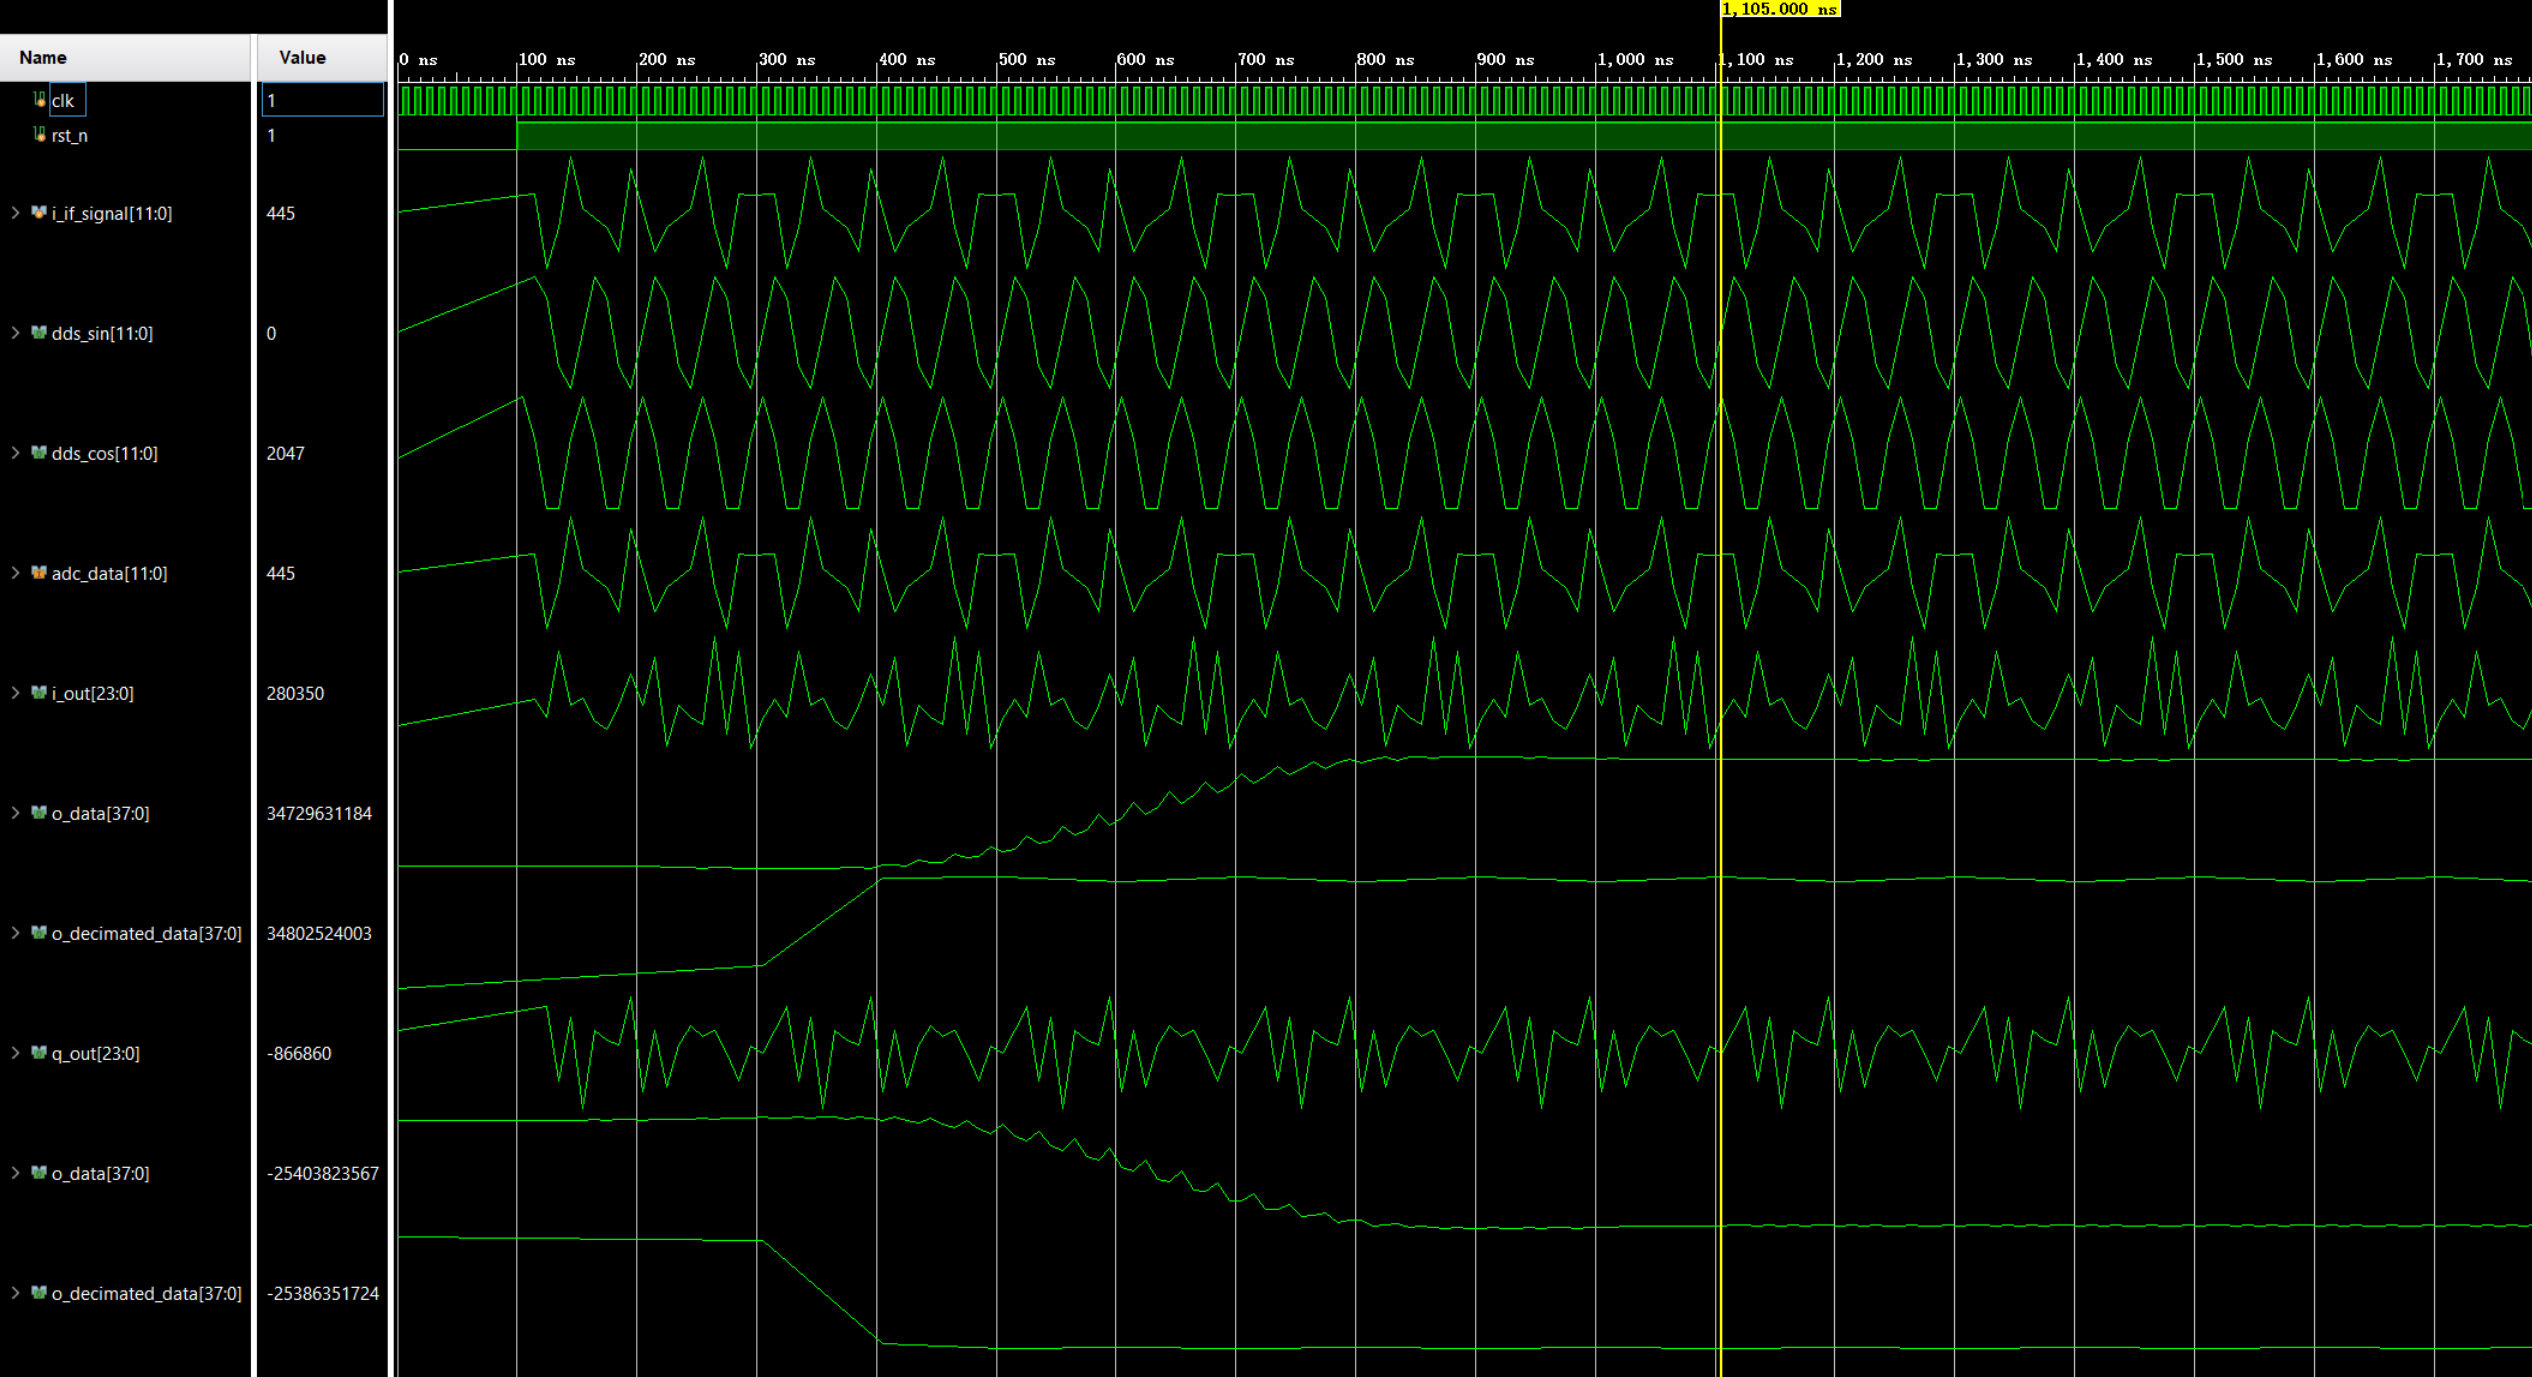
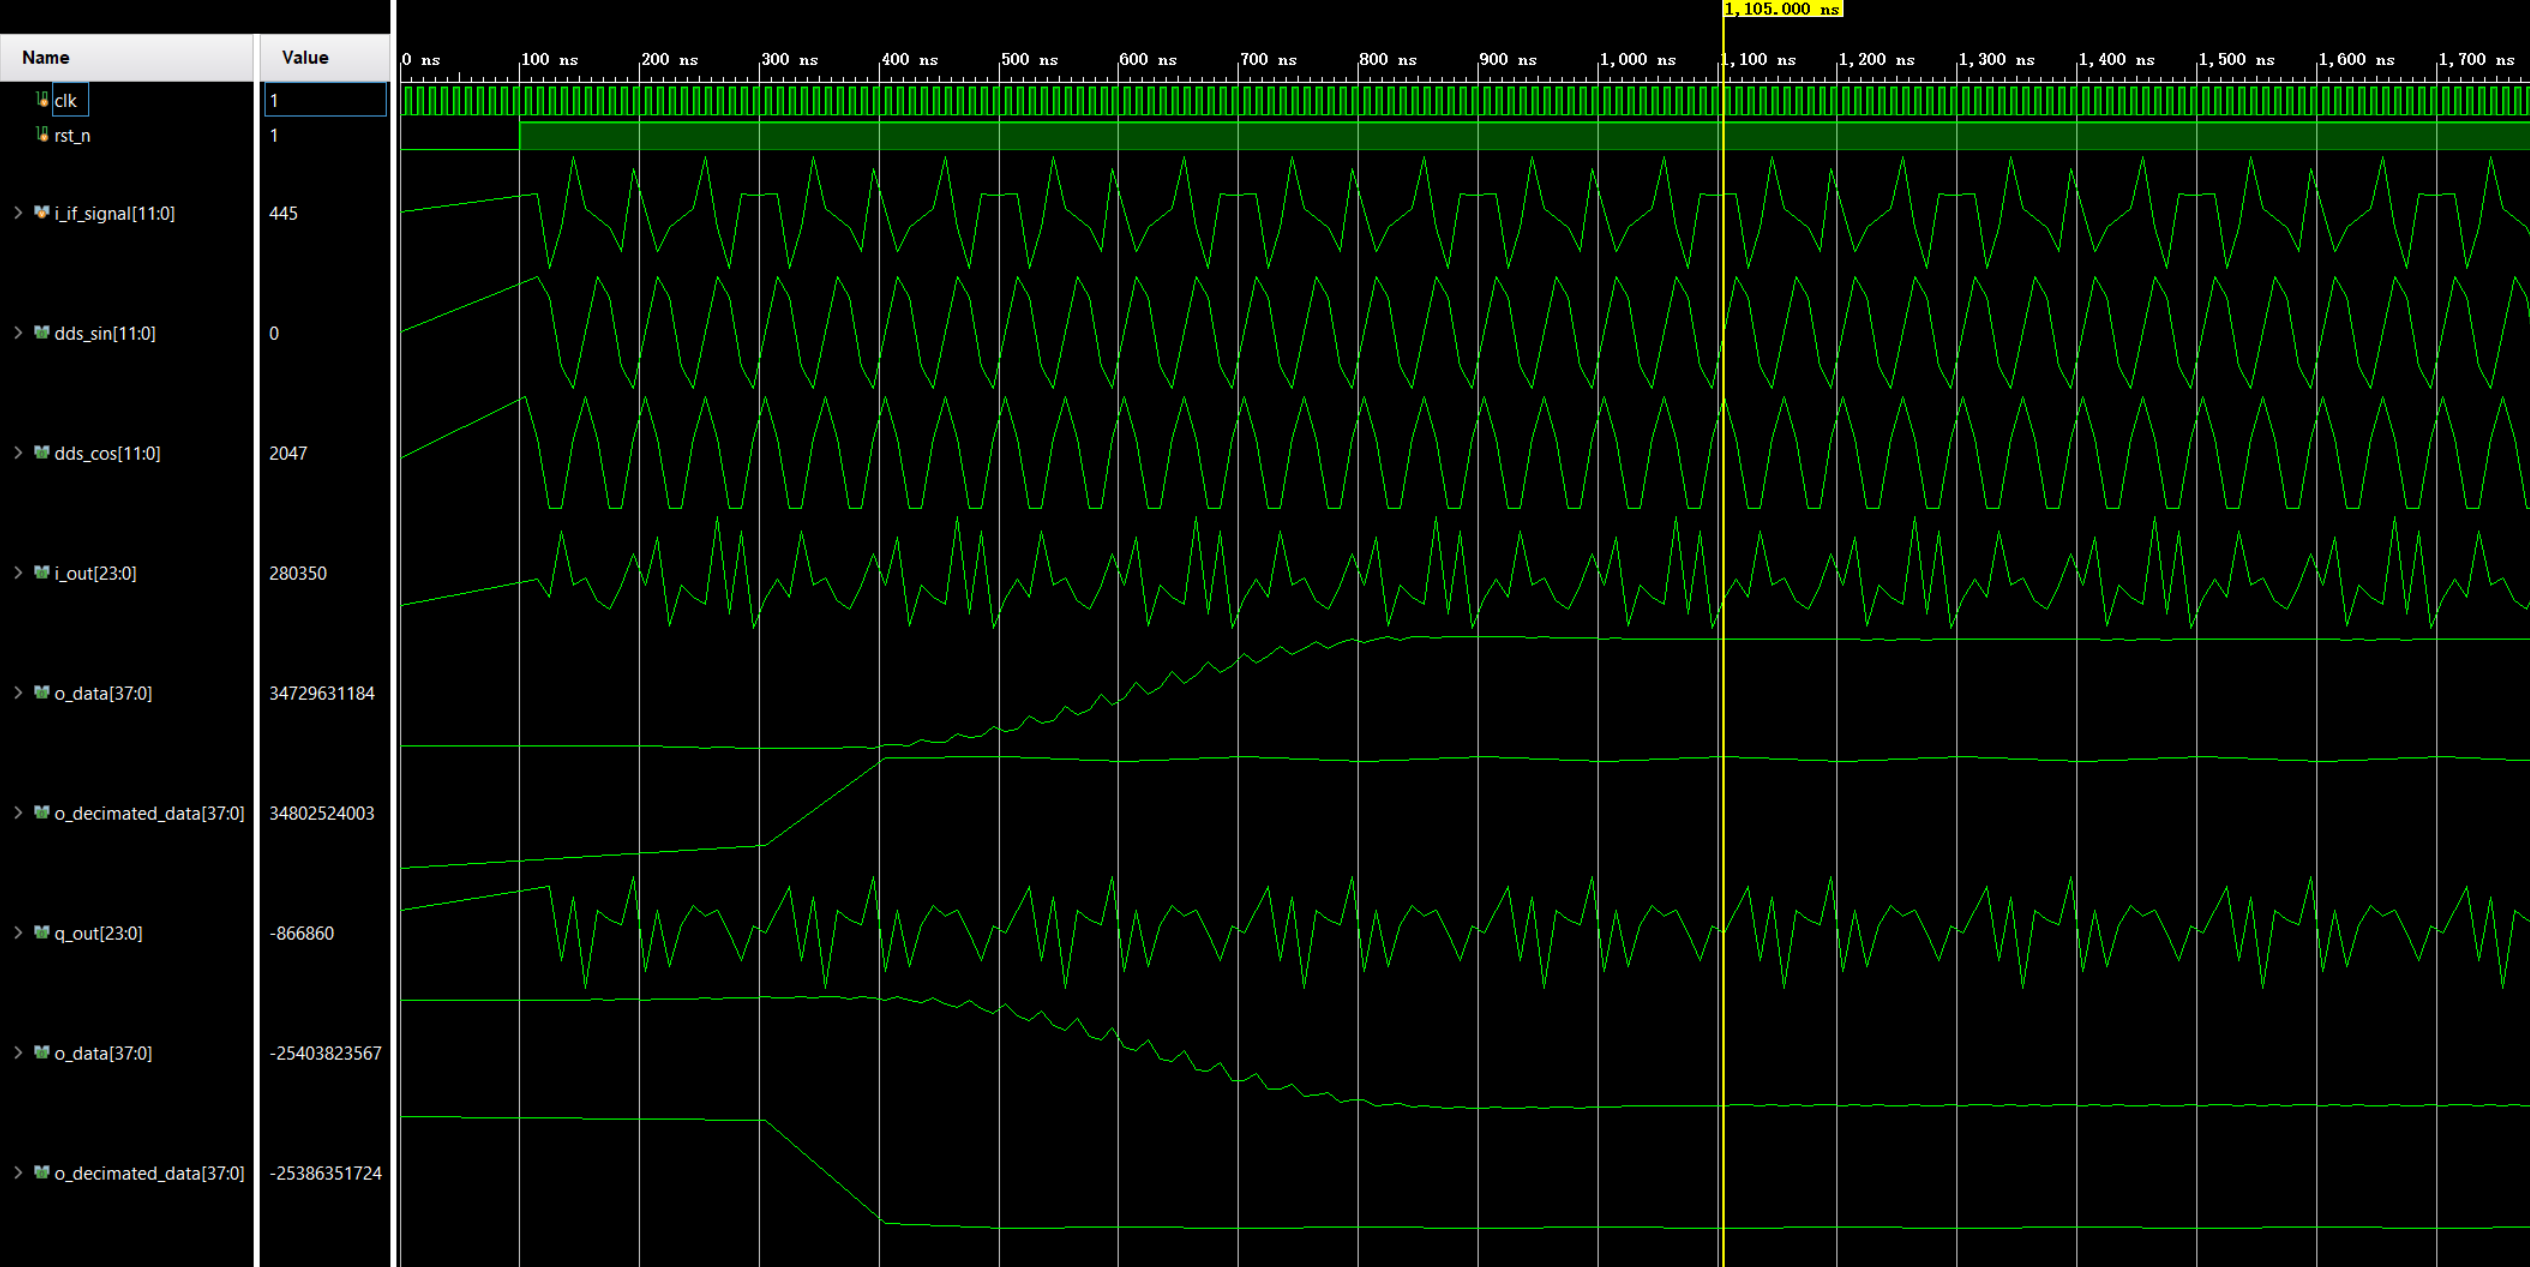
DDS has been modified

diff --git a/project_3/README.md b/project_3/README.md
@@ -11,6 +11,7 @@ a(t) \cos (\omega_ct + \phi(t)) \longrightarrow a(t)e^{j\phi(t)} = a(t)\cos(\phi
 $$
 
 Our input signal is `i_if_signal` from `ddc_top_tb.sv`, which equals 
+
 $$
 \underbrace{1000\cos(2\pi\cdot 20\text{ MHz}\cdot t)}_{\text{target signal}} + \underbrace{800\cos(2\pi\cdot 35\text{ MHz}\cdot t)}_{\text{interference signal}}
 $$
@@ -33,7 +34,7 @@ The `dds.sv` file creates a clean, smooth digital sine (`dds_sin`) and cosine (`
 | --- | --- | --- | --- |
 | `clk` | Input | 1 bit | The main heartbeat clock running at $100\text{ MHz}$ |
 | `rst_n` | Input | 1 bit | The reset button (clears memory when turned off). |
-| `ftw` | Input | 32 bits | **Frequency Tuning Word:** The digital knob that sets how fast the wave oscillates. |
+| `ftw` | Input | 32 bits | **Frequency Tuning Word:** The digital step size that sets the output wave's frequency. |
 | `init_phase` | Input | 32 bits | Sets where the wave starts its cycle after a reset. |
 | `dds_sin` | Output | 12 bits | The generated sine wave output stream. |
 | `dds_cos` | Output | 12 bits | The generated cosine wave output stream. |
@@ -41,44 +42,45 @@ The `dds.sv` file creates a clean, smooth digital sine (`dds_sin`) and cosine (`
 
 ## 3. Step-by-Step From Input to Output
 
-1. **Step Forward:** On every clock tick, a 32-bit counter (`phase_acc`) takes a step forward by adding the value of `ftw`.
-2. **Find the Angle:** The top 10 bits of this counter tell us our current position (angle) on a $360^\circ$ circle.
-3. **Look Up the Value:** The module looks up that angle in a pre-stored lookup table (`lut_rom`), which holds 1024 points of a pre-calculated sine wave.
-4. **Shift for Cosine:** To make a cosine wave at the same time, the module shifts the angle forward by $90^\circ$ ($\pi/2$ radians) and reads the table again.
-5. **Send Out Data:** The numbers retrieved from the lookup table are sent out as 12-bit signed digital wave values on every clock cycle.
+1. **Phase Accumulator:** It's job is to accumulate the phase using `ftw` until wrap aroud occurs and start over.
+2. **Look-Up Table (LUT) Index Calculation:** Converts the 32-bit phase accumulator output into normalized 10-bit memory addresses for the sine lookup tables. It applies a $90^\circ$ phase shift for the cosine calculation, flips the MSB to map the phase range to the table's signed $[-1, 1)$ domain, and truncates the result to extract the top 10 address bits (`k_s` and `k_c`). 
+3. **Look-Up Table (LUT):** Here the look up table is created, the index can be used to find the corresponding sine value.
+4. **Register Output Signals:** Synchronously samples the look-up table values (`k_s` and `k_c`) on every clock edge to update the 12-bit signed output registers `dds_sin` and `dds_cos`. 
 
 
 ## 4. Mathematical Proofs: Why Numbers Are Set This Way
+### 4.1. Discrete Phase Accumulation
+Discrete sampling $t=nT_s$, where $n=0,1,2,...,\infty$
 
-**How do we set `ftw` to get a target $20\text{ MHz}$ carrier wave?**
-The 32-bit counter wraps around after $2^{32}$ steps (a full $360^\circ$ circle). To find out how big each step (`FTW`) needs to be to make a $20\text{ MHz}$ wave out of a $100\text{ MHz}$ clock, we use this ratio:
-
-$$
-\text{FTW} = \frac{\text{Target Frequency}}{\text{Clock Frequency}} \times 2^{32}
-$$
-
-Plugging in our values ($20\text{ MHz}$ target, $100\text{ MHz}$ clock):
+Sampling rate $f_s=1/T_s=100\text{ MHz}$, phase $\phi_n = n \omega_c T_s$, so
 
 $$
-\text{FTW} = \frac{20}{100} \times 4,294,967,296 = 0.2 \times 4,294,967,296 = 858,993,459
+\phi_{n+1} = (n+1)\omega_c T_s = n \omega_c T_s + \omega_c T_s = \phi_n + \phi_s
 $$
 
-Adding $858,993,459$ on every clock cycle makes the counter complete a full sine wave cycle once every 5 clock ticks ($100 / 20 = 5$).
+Since `phase_acc <= phase_acc + ftw`, `ftw` represents $\phi_s = \omega_c T_s$
 
-**Why do we add $2^{30}$ to get the Cosine wave?**
-A cosine wave is just a sine wave shifted ahead by a quarter of a full turn ($90^\circ$ out of $360^\circ$):
-
-$$
-\cos(\theta) = \sin(\theta + 90^\circ)
-$$
-
-Since a full turn ($360^\circ$) equals $2^{32}$ steps, a quarter turn ($90^\circ$) equals:
+### 4.2. Normalized Phase & Natural Overflow
+Normalize phase range from $[0,2 \pi)$ to $[0,1)$ via
 
 $$
-\frac{1}{4} \times 2^{32} = 2^{30} = \text{\texttt{1'b1 << 30}}
+\theta_n = \frac{\phi_n}{2 \pi} = n \frac{f_c}{f_s}
+$$ 
+
+Here the unsigned fixed-point arithmetic automatically handles the wrap-around, without explicit comparison like `if (phase_acc >= 2*pi_val)`.
+
+### 4.3. Normalized Frequency & FTW Derivation
+Established normalized output frequency ration and binary fixed-point representation:
+
+$$
+\frac{f_{out}}{f_{clk}} = \frac{M}{2^N} = 0.b_{N-1}b_{N-2}...b_0
 $$
 
-Adding $2^{30}$ directly to the counter gives us the exact address for the cosine wave without needing a second lookup table.
+where 
+
+$$
+FTW = M = round(\frac{f_c}{f_s} \cdot 2^N)
+$$
 
 
 ## 5. Expetation vs Result
@@ -153,8 +155,8 @@ $$
 
 ## 5. Expetation vs Result
 
-* **What to Expect:** `i_out` and `q_out` should look like fast-moving, high-frequency ripples riding along a slow, sweeping wave baseline. The fast ripple represents the double-frequency term ($2\omega_c$), while the slow sweeping shape underneath is our actual extracted baseband data.
-* **Verification Against Results:** In the simulation output, `i_out` and `q_out` show dense, fast oscillations fluctuating around a smooth sinusoidal center line, confirming the multiplication process works as intended.
+* **What to Expect:** `i_out` and `q_out` should look like fast-moving, high-frequency ripples riding along a line. The fast ripple represents the double-frequency term ($2\omega_c$), while the slow sweeping shape underneath is our actual extracted baseband data.
+* **Verification Against Results:** In the simulation output, `i_out` and `q_out` show dense, fast oscillations fluctuating around a center line, confirming the multiplication process works as intended.
 
 
 
@@ -185,7 +187,7 @@ The `fir_filter.sv` file acts as a noise cleaner. After the mixer creates baseba
 5. **Output Clean Wave:** The final 38-bit sum is sent out as `o_data` on every clock cycle.
 
 
-### MAC (Multiply-Accumulate)
+### 3.1 MAC (Multiply-Accumulate)
 The `mac_fir` module is the fundamental building block of the FIR filter. It handles the two core operations of digital filtering: signed multiplication and accumulation.
 
 #### Processing Pipeline
